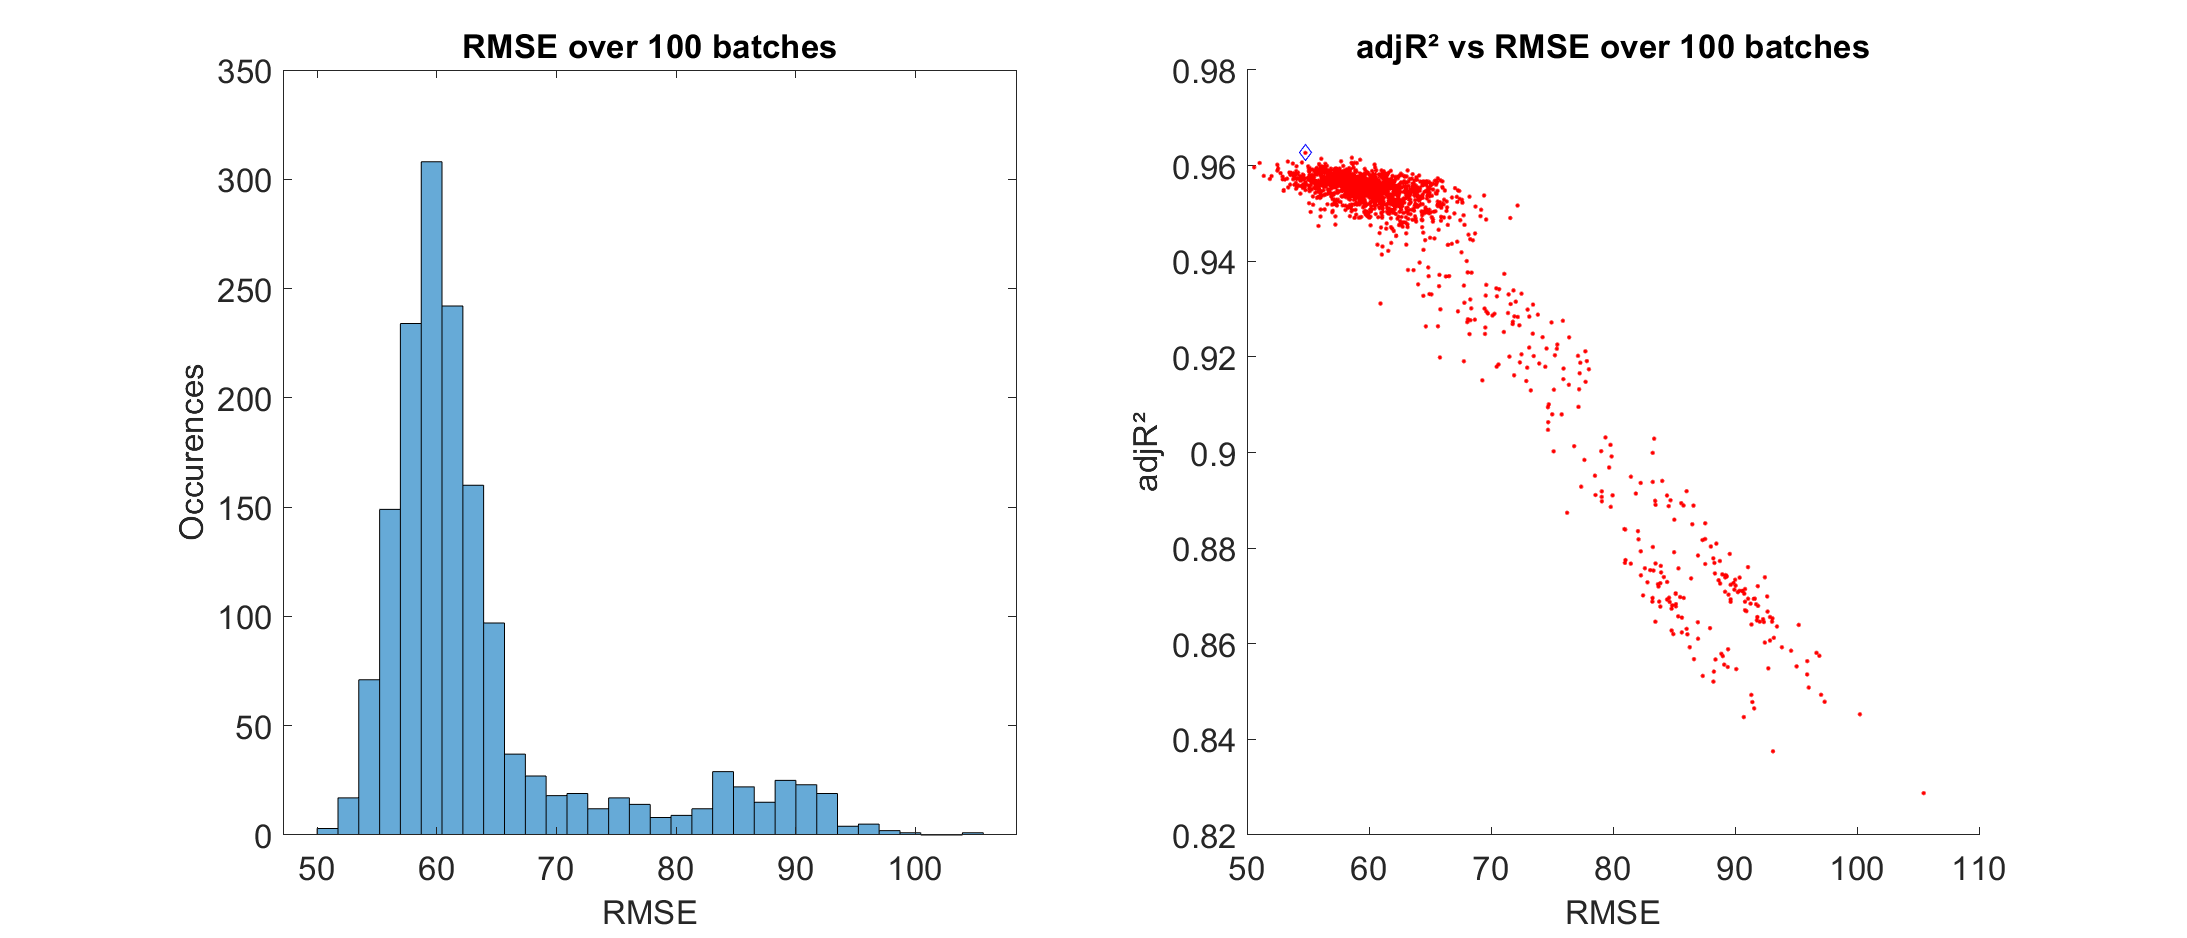
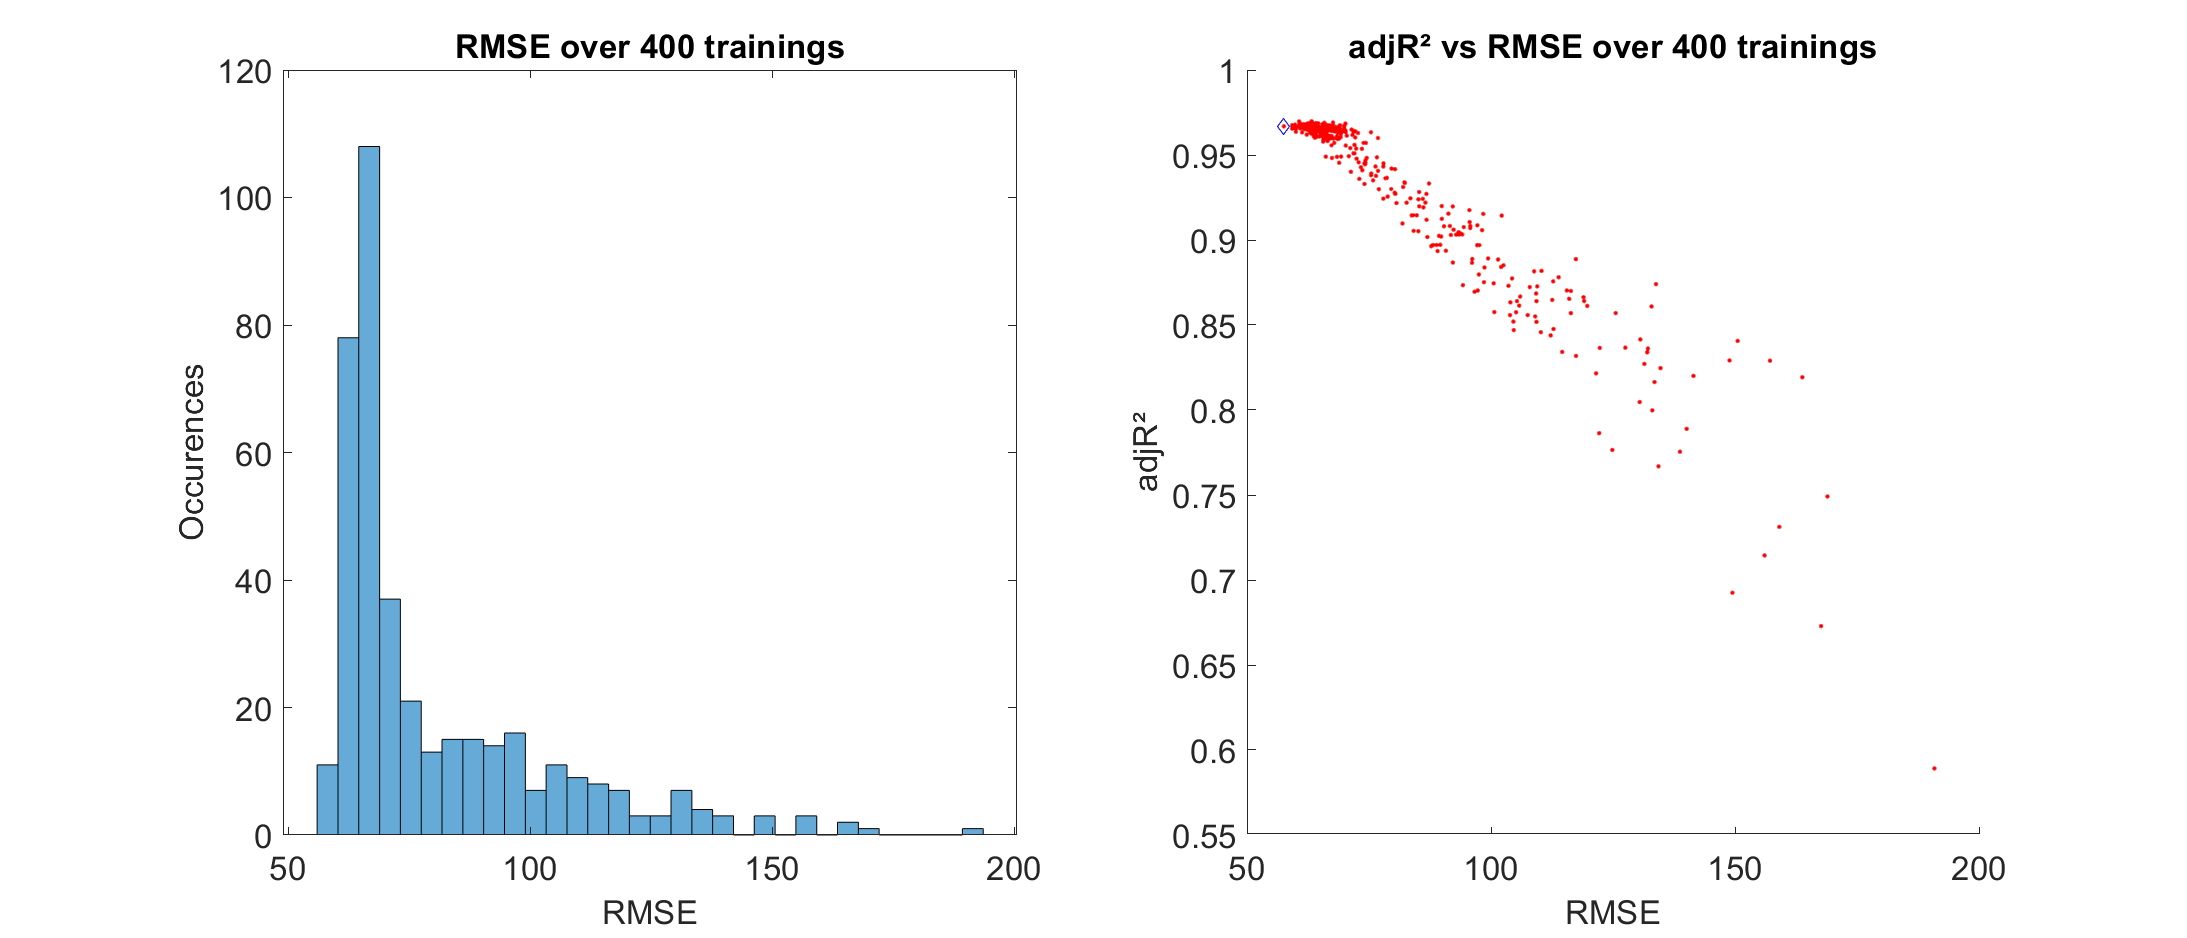
Add files via upload

diff --git a/Minimal_Neural_Network_Multinary.m b/Minimal_Neural_Network_Multinary.m
@@ -10,7 +10,7 @@ compo_variation=0.1; %for predicted data
 %%%%%%%%%%%%%%%%%%%%%%%%% get the data %%%%%%%%%%%%%%%%%%%%%%%%%%%%%%
 
 %%%%%%%%%%%%%%%%%%%% Options for Neural network %%%%%%%%%%%%%%%%%%%%%
-nbtraining = 10; %number of batches for training with k folding
+nbtraining = 25; %number of batches for training with k folding
 nbkfold = 16;    %number of k folding = number of processors used in parallel
 neurons_per_hidden_layer = 300; %the more the better but the higher the risk of overfitting, so the k-folding
 options.Epochs = 1500; %Epochs are enough when fitting does not depends on this variable anymore
@@ -85,35 +85,35 @@ for i=1:1:nbtraining
 
     % uncomment this bloc if you want to use the adjR² as metric
     %%%%%%%%%%%%%%%%%%%%%%%%%%%%%%%%%%%%%%%%%%%%%%%%%%%%%%%%%%%%%
-    for fold=1:1:nbkfold
-        if sub_adjrsquare_kfold(fold) > best_adj
-            best_RMSE = sub_RMSE_kfold(fold);
-            best_adj = sub_adjrsquare_kfold(fold);
-            best_net=nets{fold};
-            disp(['Best adjR² found: ', num2str(best_adj),' local RMSE ',num2str(best_RMSE) , ' saving to mat file...'])
-            save('BestNN.mat','best_net','-mat');
-        end
-    end
-    %%%%%%%%%%%%%%%%%%%%%%%%%%%%%%%%%%%%%%%%%%%%%%%%%%%%%%%%%%%%
-
-    % uncomment this bloc if you want to use the RMSE as metric
-    %%%%%%%%%%%%%%%%%%%%%%%%%%%%%%%%%%%%%%%%%%%%%%%%%%%%%%%%%%%%%
     % for fold=1:1:nbkfold
-    %     if sub_RMSE_kfold(fold) < best_RMSE
+    %     if sub_adjrsquare_kfold(fold) > best_adj
     %         best_RMSE = sub_RMSE_kfold(fold);
     %         best_adj = sub_adjrsquare_kfold(fold);
     %         best_net=nets{fold};
-    %         disp(['Best RMSE found: ', num2str(best_RMSE),' local adjR² ',num2str(best_adj) , ' saving to mat file...'])
+    %         disp(['Best adjR² found: ', num2str(best_adj),' local RMSE ',num2str(best_RMSE) , ' saving to mat file...'])
     %         save('BestNN.mat','best_net','-mat');
     %     end
     % end
     %%%%%%%%%%%%%%%%%%%%%%%%%%%%%%%%%%%%%%%%%%%%%%%%%%%%%%%%%%%%
 
+    % uncomment this bloc if you want to use the RMSE as metric
+    %%%%%%%%%%%%%%%%%%%%%%%%%%%%%%%%%%%%%%%%%%%%%%%%%%%%%%%%%%%%%
+    for fold=1:1:nbkfold
+        if sub_RMSE_kfold(fold) < best_RMSE
+            best_RMSE = sub_RMSE_kfold(fold);
+            best_adj = sub_adjrsquare_kfold(fold);
+            best_net=nets{fold};
+            disp(['Best RMSE found: ', num2str(best_RMSE),' local adjR² ',num2str(best_adj) , ' saving to mat file...'])
+            save('BestNN.mat','best_net','-mat');
+        end
+    end
+    %%%%%%%%%%%%%%%%%%%%%%%%%%%%%%%%%%%%%%%%%%%%%%%%%%%%%%%%%%%%
+
     close all
-    figure('Position',[100 100 1400 600]);
+    figure('Position',[100 400 1400 600]);
     subplot(1,2,1)
     histogram(history_RMSE,32)
-    title(['RMSE over ',num2str(i) ,' batches'])
+    title(['RMSE over ',num2str(i*nbkfold) ,' trainings'])
     ylabel('Occurences')
     xlabel('RMSE')
     fontsize(16,"points");
@@ -122,7 +122,7 @@ for i=1:1:nbtraining
     loglog(history_RMSE,history_adjrsquare,'r.')
     loglog(best_RMSE,best_adj,'bd')
     hold off
-    title(['adjR² vs RMSE over ',num2str(i) ,' batches'])
+    title(['adjR² vs RMSE over ',num2str(i*nbkfold) ,' trainings'])
     ylabel('adjR²')
     xlabel('RMSE')
     fontsize(16,"points");
@@ -218,7 +218,7 @@ hold on
 tetramesh(DT,'FaceAlpha',0.05);
 text(TR.Points(:,1),TR.Points(:,2),TR.Points(:,3),name_elements)
 for i=1:size(predNN,1)
-    plot3(coord_m(i,1),coord_m(i,2),coord_m(i,3),'ok-','MarkerFaceColor',color(color_index_Output(i),:),'MarkerSize',predNN(i)./300)
+    plot3(coord_m(i,1),coord_m(i,2),coord_m(i,3),'ok-','MarkerFaceColor',color(color_index_Output(i),:),'MarkerSize',predNN(i)./100)
 end
 hold off
 drawnow
@@ -227,8 +227,8 @@ drawnow
 %%%%%%%%%%%%%%%%%%%%%%%%%%%%%%%%%%%%%%%This bloc saves stuff %%%%%%%%%%%%%%%%%%%%%%%%%%%%%%%%%%%%%%%%
 disp('Saving figure to png file')
 saveas(gcf,'Figure.png');
-disp('Saving figure to fig file')
-savefig('Figure.fig')
+% disp('Saving figure to fig file')
+% savefig('Figure.fig')
 disp('End of training, displaying the best compositions found by brute force:')
 Best_compositions=[compo_predicted,predNN];
 Best_compositions=sortrows(Best_compositions,nb_elements+1,"descend");
